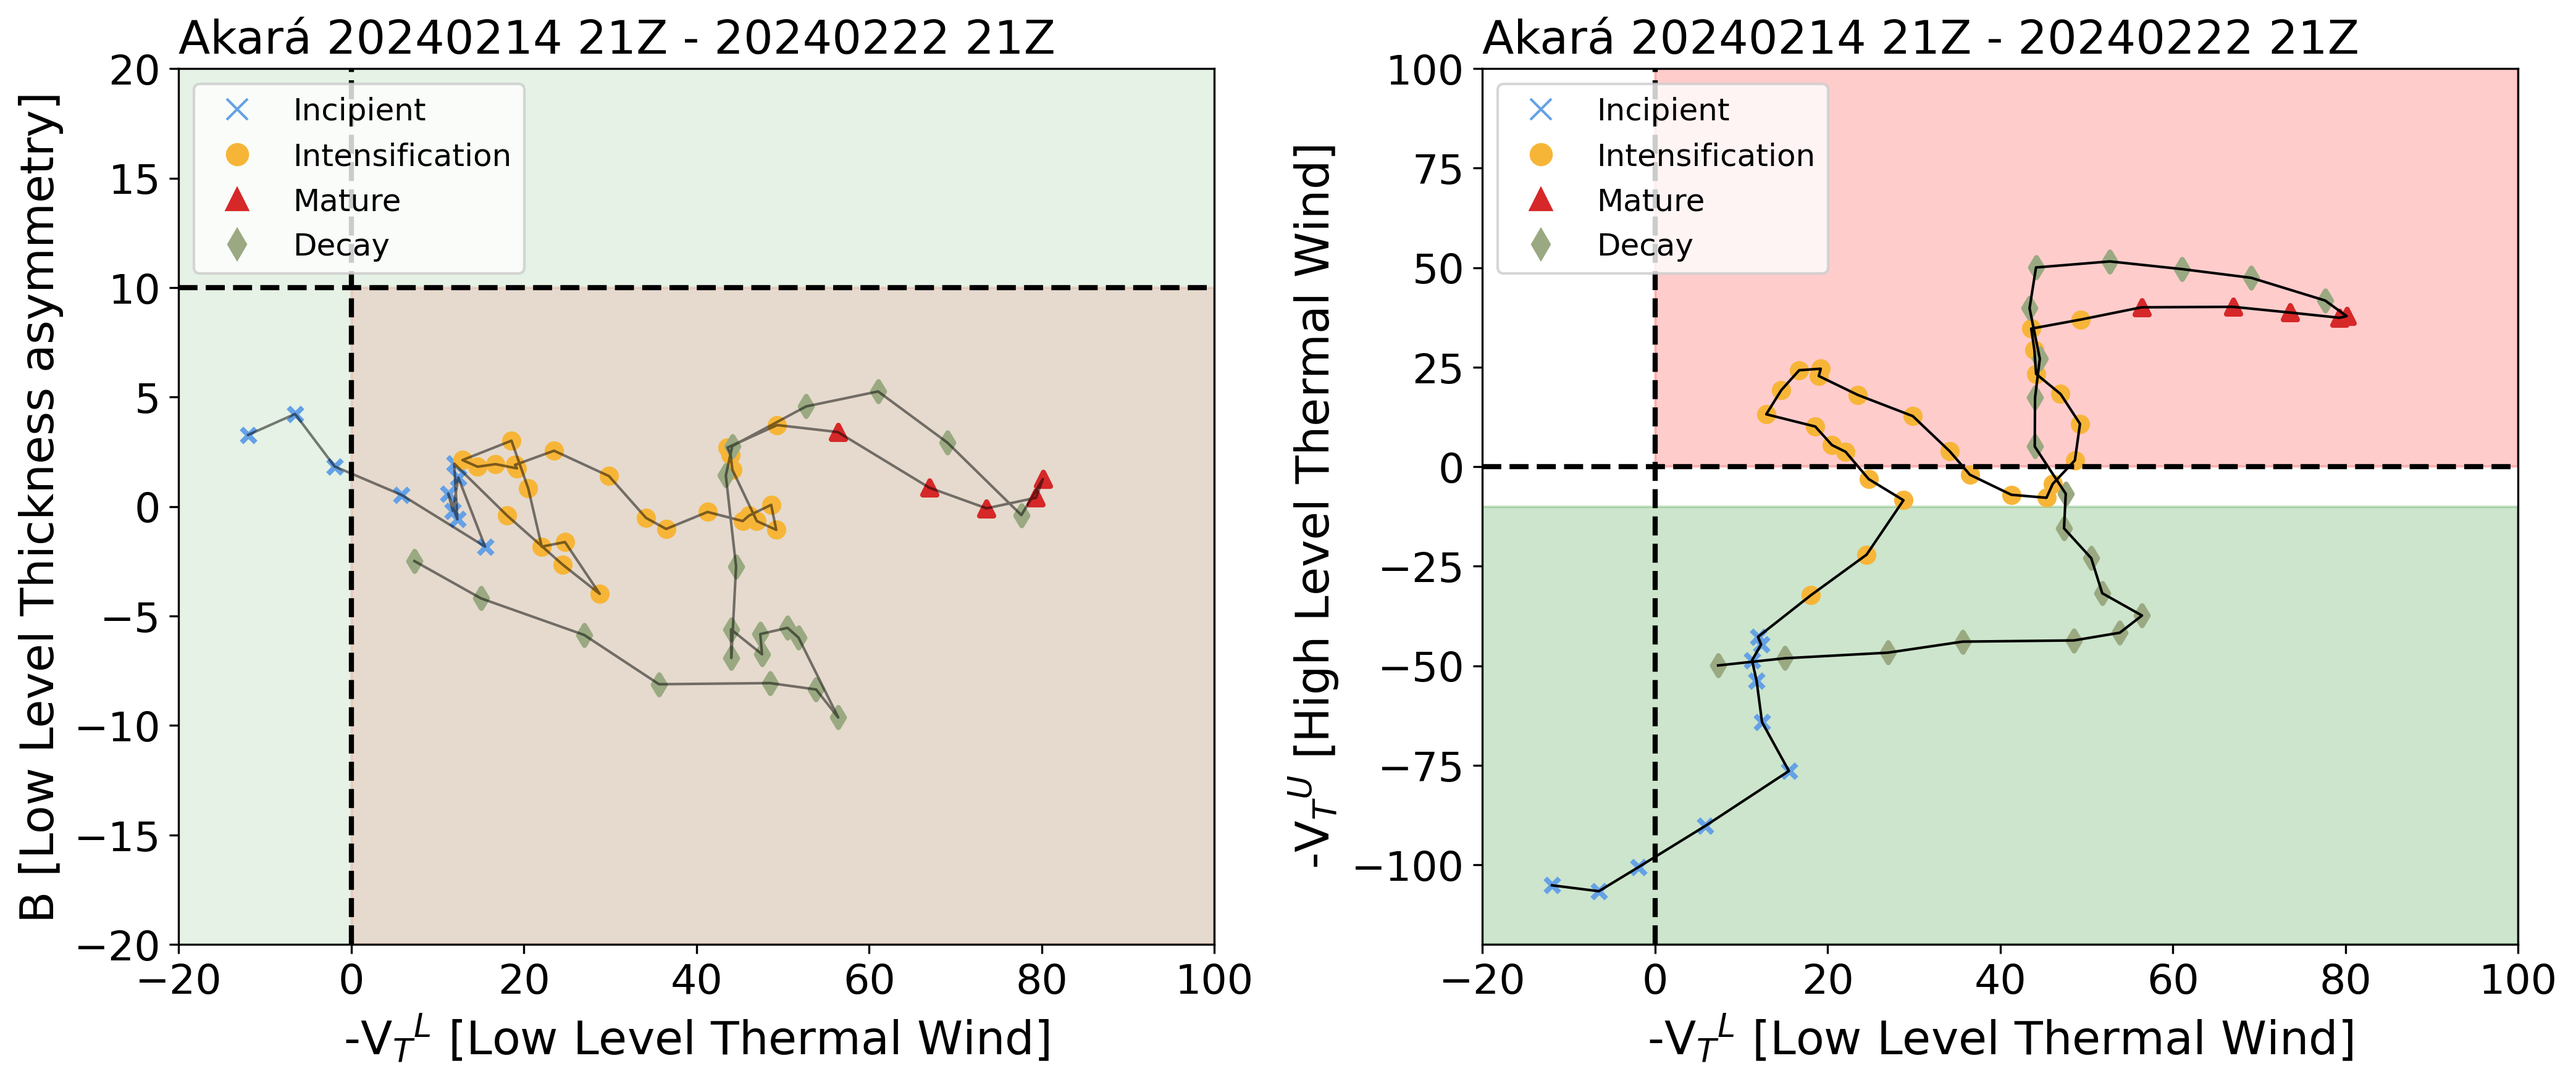
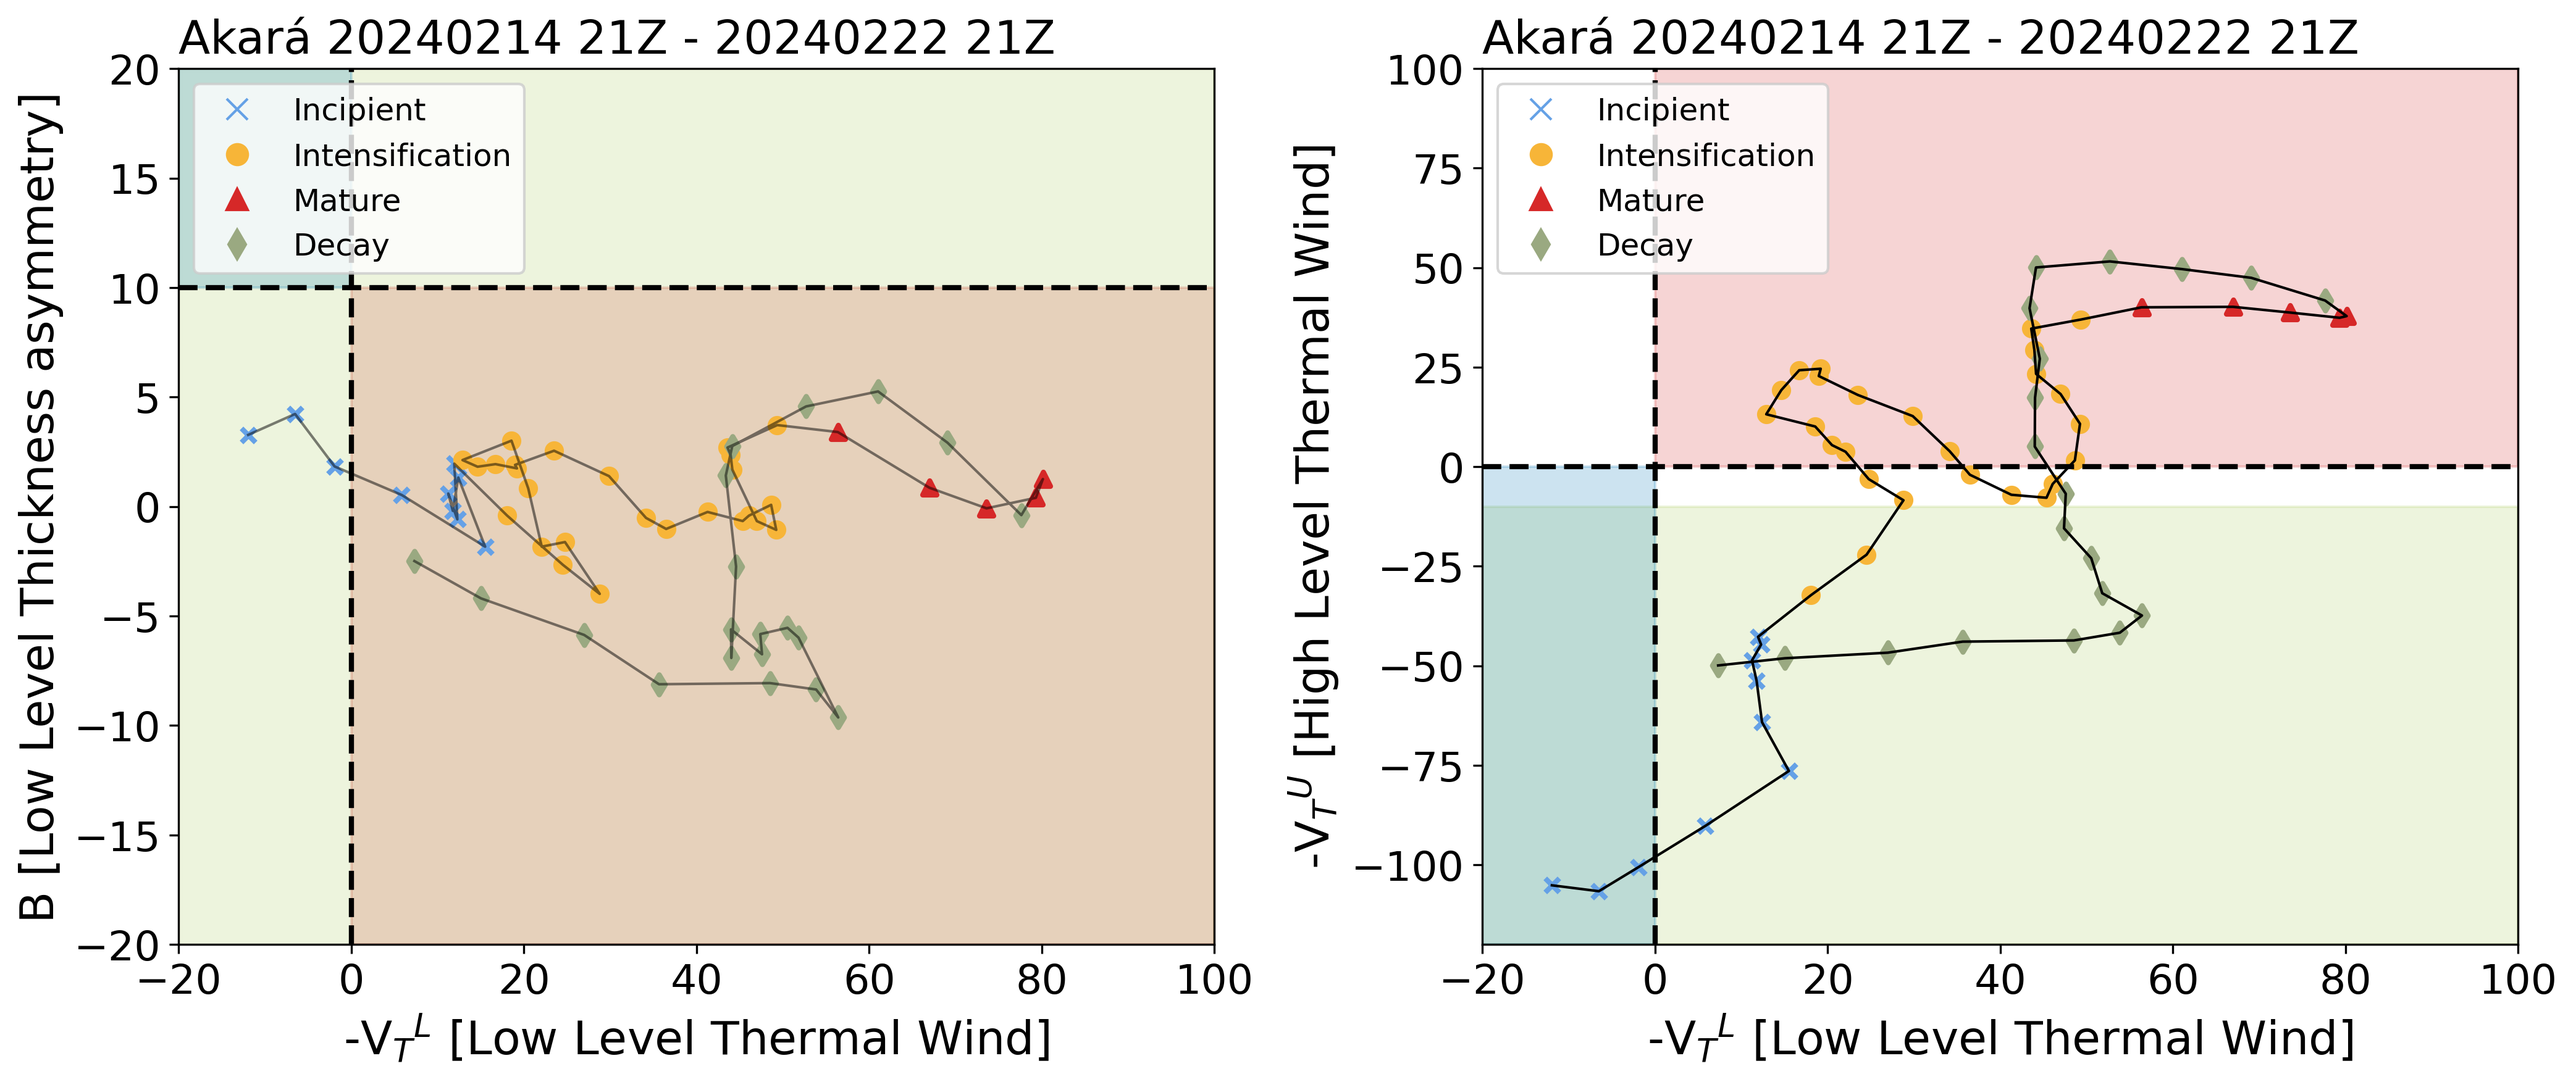
cps

Changed region(s): [[0.561, 0.4313, 0.9974, 0.8933], [0.0623, 0.0616, 0.1558, 0.2772]]

diff --git a/Akara/CPS/cria_cps.py b/Akara/CPS/cria_cps.py
@@ -20,8 +20,10 @@ fig, axes = plt.subplots(1, 2, figsize=(14, 6))
 legend_items = {}
 
 # Gráfico 1: VTL vs B
-axes[0].fill_betweenx([-20, 10], 0, 100, color='red', alpha=0.1)  # Tropical
-axes[0].fill_betweenx([-25, 25], -50, 100, color='green', alpha=0.1)  # Subtropical
+axes[0].fill_betweenx([-20, 10], 0, 100, color='#d62828', alpha=0.2)  # Tropical
+axes[0].fill_betweenx([-25, 25], -50, 100, color='#a7c957', alpha=0.2)  # Subtropical
+axes[0].fill_betweenx([10, 20], -20, 0, color='#0077b6', alpha=0.2)  # Extratropical
+
 
 # Adicionar linhas conectando os pontos
 axes[0].plot(cps['VTL_media_movel'], cps['B_media_movel'], color='black', alpha=0.5, linewidth=1)
@@ -49,8 +51,9 @@ axes[0].tick_params(axis='x', labelsize=16)
 axes[0].tick_params(axis='y', labelsize=16)
 
 # Gráfico 2: VTL vs VTU
-axes[1].fill_betweenx([0, 100], 0, 100, color='red', alpha=0.2)  # Tropical
-axes[1].fill_betweenx([-120, -10], -50, 100, color='green', alpha=0.2)  # Subtropical
+axes[1].fill_betweenx([0, 100], 0, 100, color='#d62828', alpha=0.2)  # Tropical
+axes[1].fill_betweenx([-120, -10], -50, 100, color='#a7c957', alpha=0.2)  # Subtropical
+axes[1].fill_betweenx([-120, 0], -20, 0, color='#0077b6', alpha=0.2)  # Extratropical
 
 # Adicionar linhas conectando os pontos
 axes[1].plot(cps['VTL_media_movel'], cps['VTU_media_movel'], color='black', alpha=1, linewidth=1)
